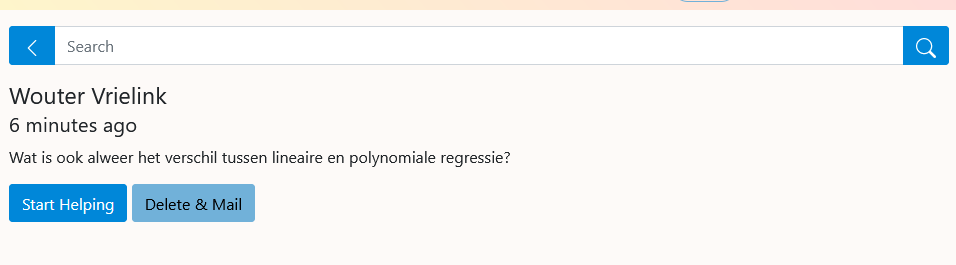
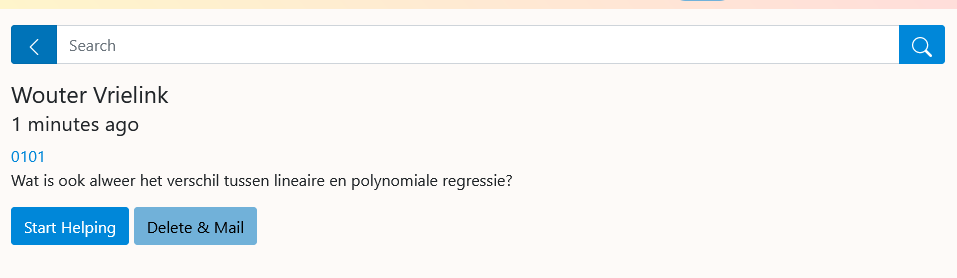
Hands uitleg

diff --git a/handleiding/index.md b/handleiding/index.md
@@ -232,7 +232,7 @@ Jij hoeft je als assistent niet bezig te houden met:
 - serieuze studieproblemen
 - problemen op persoonlijk vlak
 
-Komt een van deze dingen naar voren, verwijs dit altijd door naar de cursuscoördinator. Vraag de student **allereerst** om zelf een mail te sturen naar [minorai@mprog.nl>. Maar studenten vinden het vaak moeilijk om verdere hulp te vragen, dus de mentor moet het ook direct melden (via een Todo in Basecamp). Het is belangrijk dat wij vanaf de eerste vraag om hulp medeverantwoordelijkheid nemen en een student niet aan het lot overlaten. De examinator kan wanneer nodig de mentor vervolgens inlichten over afspraken die gemaakt zijn.
+Komt een van deze dingen naar voren, verwijs dit altijd door naar de cursuscoördinator. Vraag de student **allereerst** om zelf een mail te sturen naar <minorai@mprog.nl>. Maar studenten vinden het vaak moeilijk om verdere hulp te vragen, dus de mentor moet het ook direct melden (via een _Todo_ in Basecamp). Het is belangrijk dat wij vanaf de eerste vraag om hulp medeverantwoordelijkheid nemen en een student niet aan het lot overlaten. De examinator kan wanneer nodig de mentor vervolgens inlichten over afspraken die gemaakt zijn.
 
 Bij meer persoonlijke problemen proberen we altijd goed gebruik te maken van de faciliteiten van de universiteit, zoals studieadviseurs en studentendecanen. De examinator weet meer over de mogelijkheden en kan studenten verwijzen. De mentor hoeft dat niet zelf te doen, maar is vaak wel de eerste die de problemen signaleert.
 
@@ -262,7 +262,7 @@ Op deze website vind je een uitgebreidere instructie en een tijdsindicatie voor 
 
 De mentoren gebruiken **Slack** om hun studenten te informeren en om ze een kanaal te geven waarmee ze met elkaar  kunnen communiceren buiten de groep om. Deze Slack wordt door de mentor zelf aangemaakt (hierover later in dit document meer informatie).
 
-Maar: mentoren zullen *niet* veel beschikbaar zijn via Slack. Dit wordt in de studiewijzer verteld en jij gaat dit als mentor zelf ook bij het eerste werkcollege duidelijk maken. Coördinatoren zijn zelfs helemaal niet in de Slack te vinden.
+Maar: mentoren zullen *niet* veel beschikbaar zijn via Slack. Dit zal je als mentor zelf ook bij het eerste werkcollege duidelijk maken. Coördinatoren en examinatoren zijn zelfs helemaal niet in de Slack te vinden.
 
 Ga als mentor ook niet in een Whatsapp zitten die studenten aanmaken. Geef duidelijk aan dat ze jou alleen via Slack kunnen bereiken en tijdens het werkcollege, en de docenten alleen via e-mail of bij het voorbijkomen in het lokaal. Zo zorg je er zelf voor dat je niet continu bezig hoeft te zijn met je mentorrol.
 
@@ -354,51 +354,64 @@ Geef duidelijke verbale signalen af tijdens het assisteren, met name in de fase 
 
 Doe tot slot geen aannames over wat studenten al weten. Een student kan soms met zelfs het makkelijkste probleem in de knel zitten en dan is het erg frustrerend als er wordt gezegd 'probeer eens wat harder na te denken'. Toets wat de student wel weet en bouw daarop voort. Stel open vragen en laat de student zelf het probleem oplossen, probeer niets voor te zeggen!
 
-<!-- TODO hieronder nog een stukje over hands en gedrag tijdens assisteren -->
+## 6.5 Het Hands-systeem en assisteren
 
-## 6.5 Het Hands-systeem
+Studenten kunnen een hulpvraag indienen via de Introduction to Machine Learning website. Deze "hands" verschijnen voor de assistenten in een lijst op de website. Je kiest de bovenste student om deze te "claimen", waarna je naar door de student aangegeven locatie gaat.
 
-voorbeeldscreenshots Hands
-- Hoe ziet het er uit voor student (hands_vraag.png + hands_waiting.png + hands_no_wait.png + hands_not_too_much.png)
-- Hoe ziet het er uit voor assistent (hands_menu.png)
-- Tijden aangeven (hands_times.png)
-- Vragenlijst op volgorde afwerken (hands_overzicht.png + hands_voor_accept.png + hands_accepted.png)
-- Vragen terugzetten voor jezelf (hands_terug_gezet.png)
-- Vragen terugzetten voor iemand anders (hands_terug_gezet_ander.png)
-- Vragen voltooien (hands_geen_studenten.png)
+Probeer gemiddeld 10 minuten per student aan te houden. Een absoluut maximum is 20 minuten. Duurt het langer, neem dan contact op met de coördinator om te kijken wat de beste aanpak is.
 
-<!-- ## 7.5 Werkwijze programmeerbalie
+### Hoe ziet het Hands-systeem er uit voor de student?
 
-Vanaf dit jaar komen studenten altijd naar de programmeerbalie in A1.24 als ze hulp nodig hebben (tenzij we gedeeltelijk op afstand werken).
+Bovenaan de pagina staat voor de studenten een vraagteken. Naast dit vraagteken staat een getal wat aangeeft hoe veel vragen er op het moment in de rij staan. Wanneer de student hierop klikt komt het vraagmenu naar beneden. Hierop staat direct hoe veel assistenten er aanwezig zijn om te helpen.
 
-### Afspraak maken
+![](images/hands_vraag.png)
 
-Studenten kunnen een hulpvraag indienen via de website. Ze hebben deze keuze uit een beperkt aantal opties: sommige zijn "zo snel mogelijk," hopelijk binnen 2 uur. Andere opties zijn juist morgen. Het is niet mogelijk om ver vooraf een afspraak te maken.
+Wanneer de student de vraag, het onderwerp, en een tafelnummer heeft ingevuld (dit nummer kan je vinden op de bordjes met binaire getallen op de tafels) en vervolgens op de knop _'Ask for assistance'_ drukt verschijnt een nieuw schermpje. Hierop zien de studenten hoeveel andere vragen er nog voor die van hun in de rij staan en kunnen ze de vraag uit de wachtrij verwijderen.
 
-### Ontvangst
+![](images/hands_waiting.png)
 
-Op de afgesproken tijd komen studenten naar lokaal A1.24. De docent of assistent die "greeter" is zal ze daar ontvangen en zonodig even in de wacht houden. Deze persoon kan kleinere problemen ook zelf afhandelen, maar alléén als dat niet teveel afleidt van het organiseren van de korte wachtrij.
+Ten slotte is veranderd het schermpje weer als de vraag door één van de assistenten wordt geclaimd. De naam van de assistent die naar de student op zoek is wordt weergeven.
 
-### Assisteren
+![](images/hands_no_wait.png)
 
-Zodra het kan wordt een student naar één van de assistenten gestuurd. Als assistent zoek je meteen even de gegevens van deze student op, in de juiste cursuswebsite. Vraag dus naar naam en cursus. Op de site vind je notities die bij het eerdere assisteren zijn achtergelaten. Misschien heeft de vorige assistent wel expliciet gevraagd aan de student om iets te doen. Dubbelcheck dat!
+Het is niet mogelijk voor de student om direct na het stellen van een vraag nog een vraag te stellen. Wanneer een student dit toch doet wordt het volgende scherm weergeven.
 
-**Situatie: geen concrete vraag.** Juist bij de balie is er een kans dat een student nog geen concrete vraag heeft. Help de student in dat geval de vraag formuleren zoals hierboven uitgelegd (6.3). Sommige studenten kunnen ook nog wat meer tijd gebruiken om zelf wat langer naar hun programma te kijken voordat je ze echt gaat helpen; probeer zelf een juiste inschatting van de situatie te maken om vervolgens te besluiten de student direct te helpen, of een duwtje in de goede richting te geven en later nog even terug te laten komen.
+![](images/hands_not_too_much.png)
 
-**Situatie: code is onleesbaar.** Is de indentatie totaal niet op orde? Vraag de student dan altijd eerst om deze netjes te maken. Niet alleen omdat het "hoort" maar omdat verkeerde indentatie het probleem heel moeilijk vindbaar kan maken. Met een beetje mazzel is het daarna zo gevonden (studenten in deze fase hebben overigens vaak ook nog een probleem met de analyse van hun probleem, dus kijk daar ook naar). In principe blijft de student bij jou zodat je eventueel kan inspringen 🙃, maar als het echt lang duurt laat je de student straks terugkomen.
+### Voor assistenten
 
-### Tijdsbesteding
+Assistenten kunnen rechtsboven op de Introduction to Machine Learning site een knop vinden naast de vragenknop. Hierop staat het menu genaamd _'Hands'_.
 
-- Probeer zo'n 10 minuten per student aan te houden. Een absoluut maximum is 20 minuten, in noodgevallen. Duurt het langer, haal dan de greeter erbij om te zorgen dat de planning niet in de soep loopt.
+![](images/hands_menu.png)
 
-- Als je een student later wil laten terugkomen, meld dit dan ook bij de greeter. Vertel bovendien duidelijk tegen de student wat je verwachting is en hoe deze zich weer kan melden.
+Wanneer je dit voor de eerste keer op de dag opent geef je aan tot welke tijd je assisteert. Hierdoor kunnen de studenten zien hoe veel assistenten er aanwezig zijn.
 
-- Kom je er zelf niet uit? Dan kun je natuurlijk altijd even vragen of één van je mede-assistenten of de greeter mee kan kijken. Het is expliciet de bedoeling dat onervaren assistenten zonodig hulp inschakelen en zich zo verder ontwikkelen.
+![](images/hands_times.png)
 
-### Verslag
+De pagina weergeeft daarna de lijst met vragen van de studenten. De vraag bovenaan is de vraag die het langst geleden gesteld is. Werk de lijst dus altijd van boven naar beneden door.
 
-Na het helpen schrijf je op de website een korte samenvatting van het uiteindelijke probleem en hoe je geholpen hebt. Noteer het ook als je de student hebt gevraagd iets te doen en later terug te komen. De volgende assistent kan deze informatie ook lezen en daar op inspelen. -->
+![](images/hands_overzicht.png)
 
+Je kunt op de vraag klikken, dan krijg je een gedetailleerdere versie van de vraag met twee opties: 'Start Helping' en 'Delete & Mail'. Met `Start Helping` claim je de vraag, en met `Delete & Mail` kan je de vraag uit de lijst halen als er geen hulp meer aangeboden wordt, of als de vraag al een flinke tijd voordat assistentie begint in de lijst is gezet bijvoorbeeld. Als je de vraag niet wilt claimen of deleten kan je ook terug naar het overzicht met het `<` pijltje linksboven.
+
+![](images/hands_voor_accept.png)
+
+Nadat je de vraag geclaimd hebt krijg je het scherm hieronder. Hierin kan je eventuele opmerkingen neerzetten voor in het systeem op de website. Deze worden niet zichtbaar voor de student. Ook kan je hier alsnog de vraag deleten.
+
+![](images/hands_accepted.png)
+
+Daarnaast is het is mogelijk om een student terug in de lijst te plaatsen. Dit kan om twee redenen:
+
+- Het kan zijn dat je deze student zelf korte tijd later nog even wil spreken. Vertel dit duidelijk tegen de student. Deze kan namelijk in de tussentijd ook geen andere vraag indienen! Druk dan op het pijltje linksboven, nadat je de vraag geclaimd hebt. De student komt dan terug in jouw lijst, en de vraag wordt blauw gekleurd. Jij bent nu de enige die de vraag nog kan zien. Ondertussen kan je andere studenten helpen, en later de vraag alsnog weer aanklikken en als afgehandeld markeren. Vergeet dit niet te doen!
+- Misschien kom je er niet uit met de vraagstelling en wil je heel graag dat een andere assistent de vraag overneemt. Dit kan alleen als er een andere assistent (of de coördinator) beschikbaar is; check dit even voordat je de vraag terug zet (via basecamp, of in het lokaal). De vraag wordt dan geel gemarkeerd en is bij iedereen in de lijst zichtbaar.
+
+![](images/hands_terug_gezet.png)
+
+![](images/hands_terug_gezet_ander.png)
+
+Wanneer er geen vragen zijn, krijg je het scherm hieronder te zien.
+
+![](images/hands_geen_studenten.png)
 
 # 7 Deadlines en ziekmelding
 
